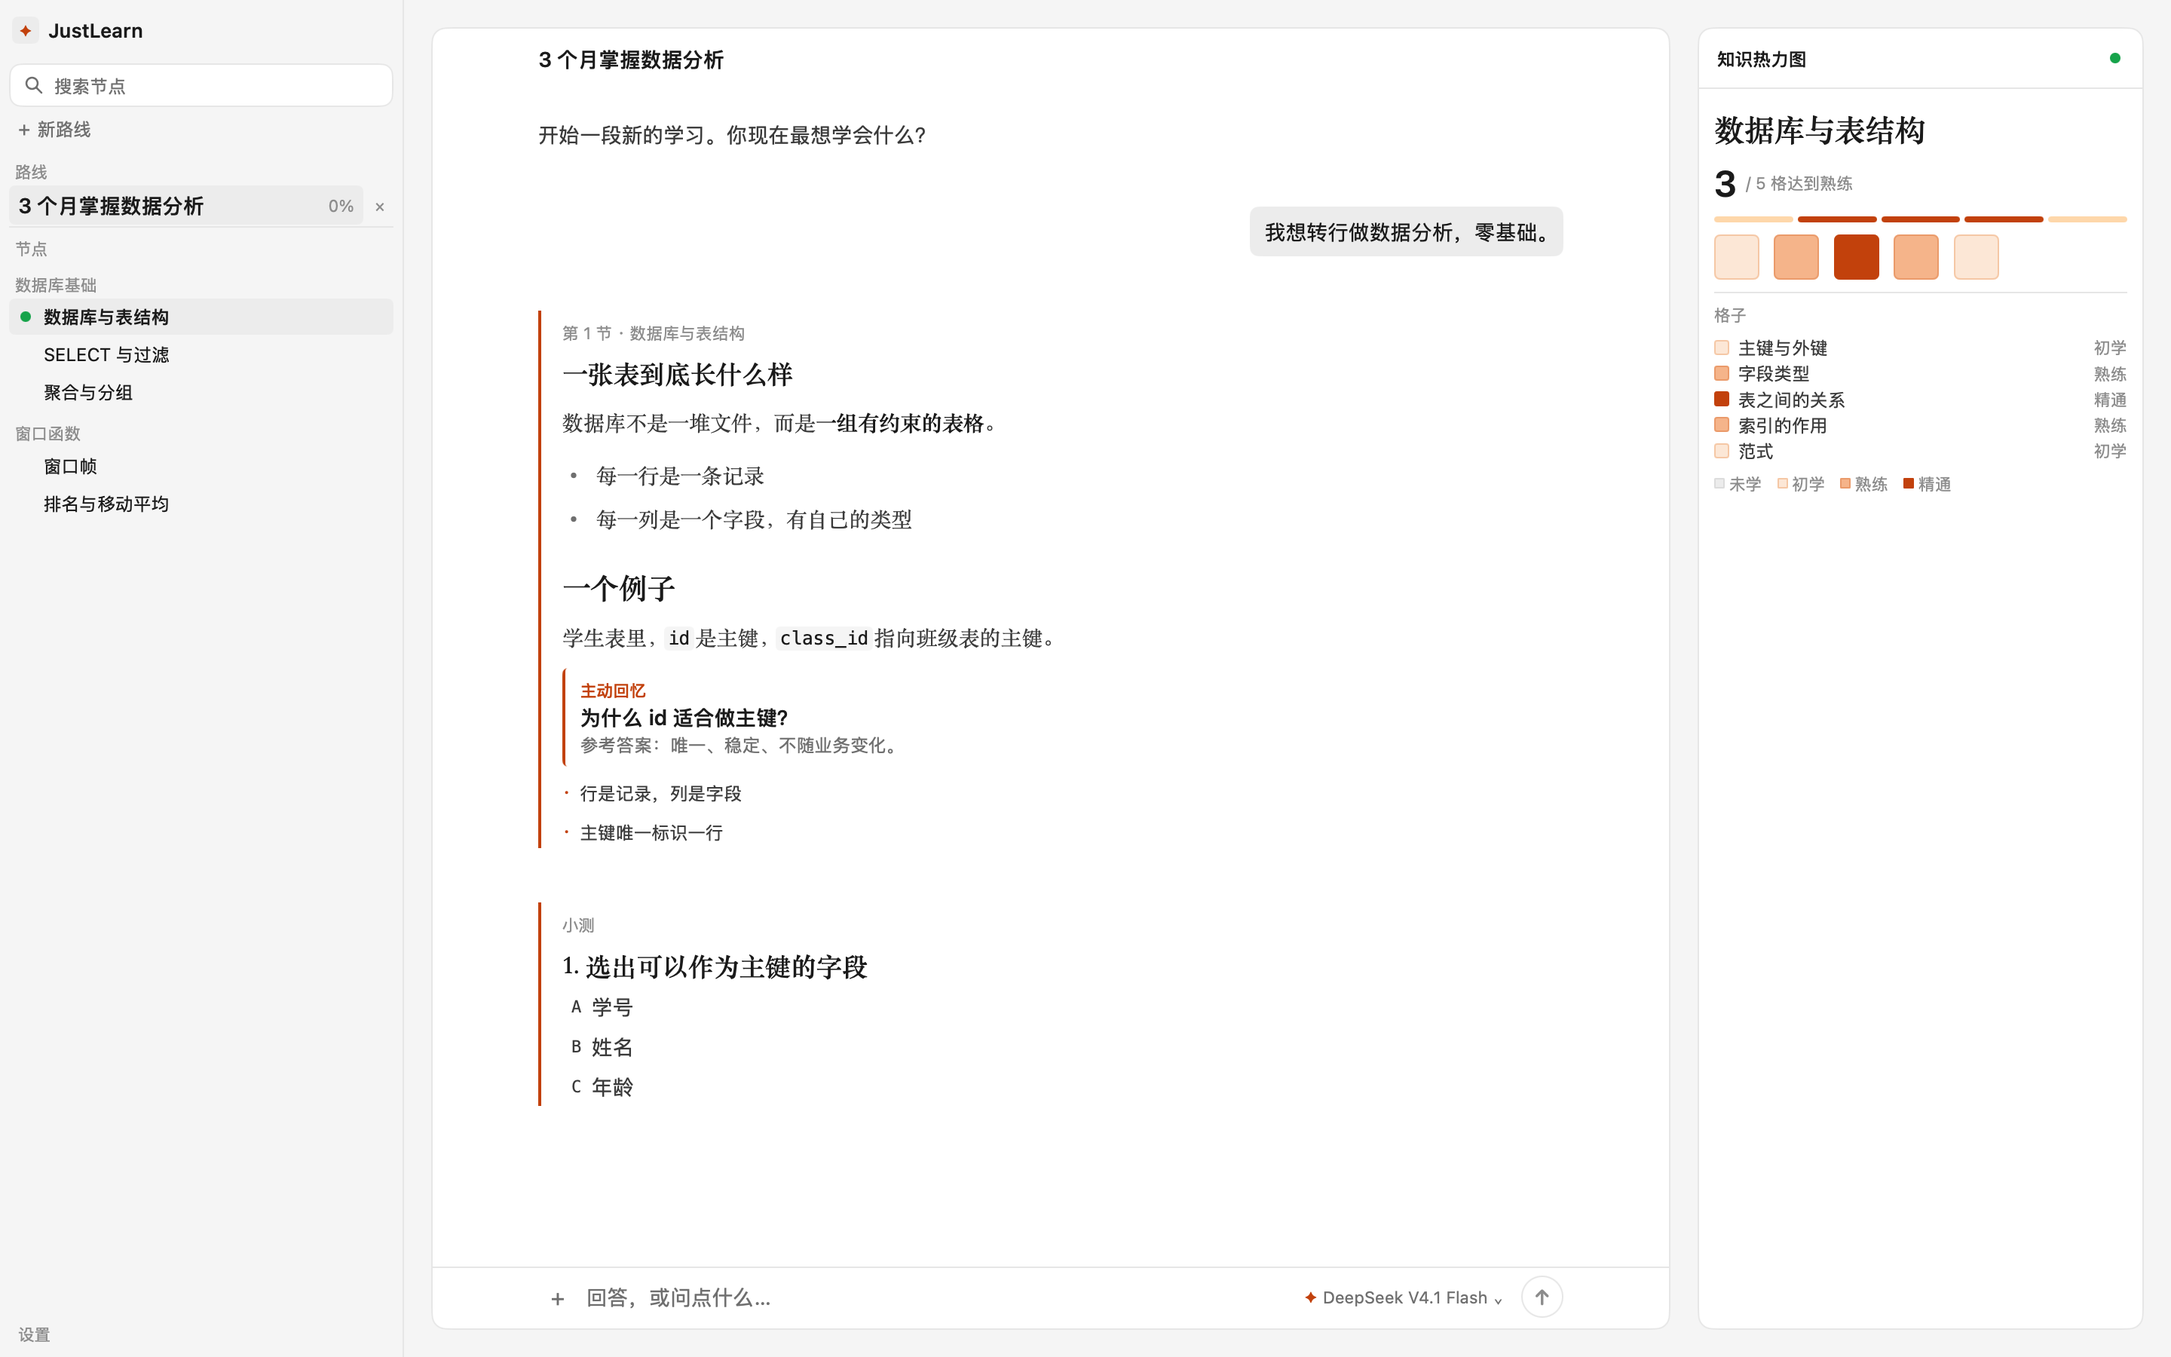
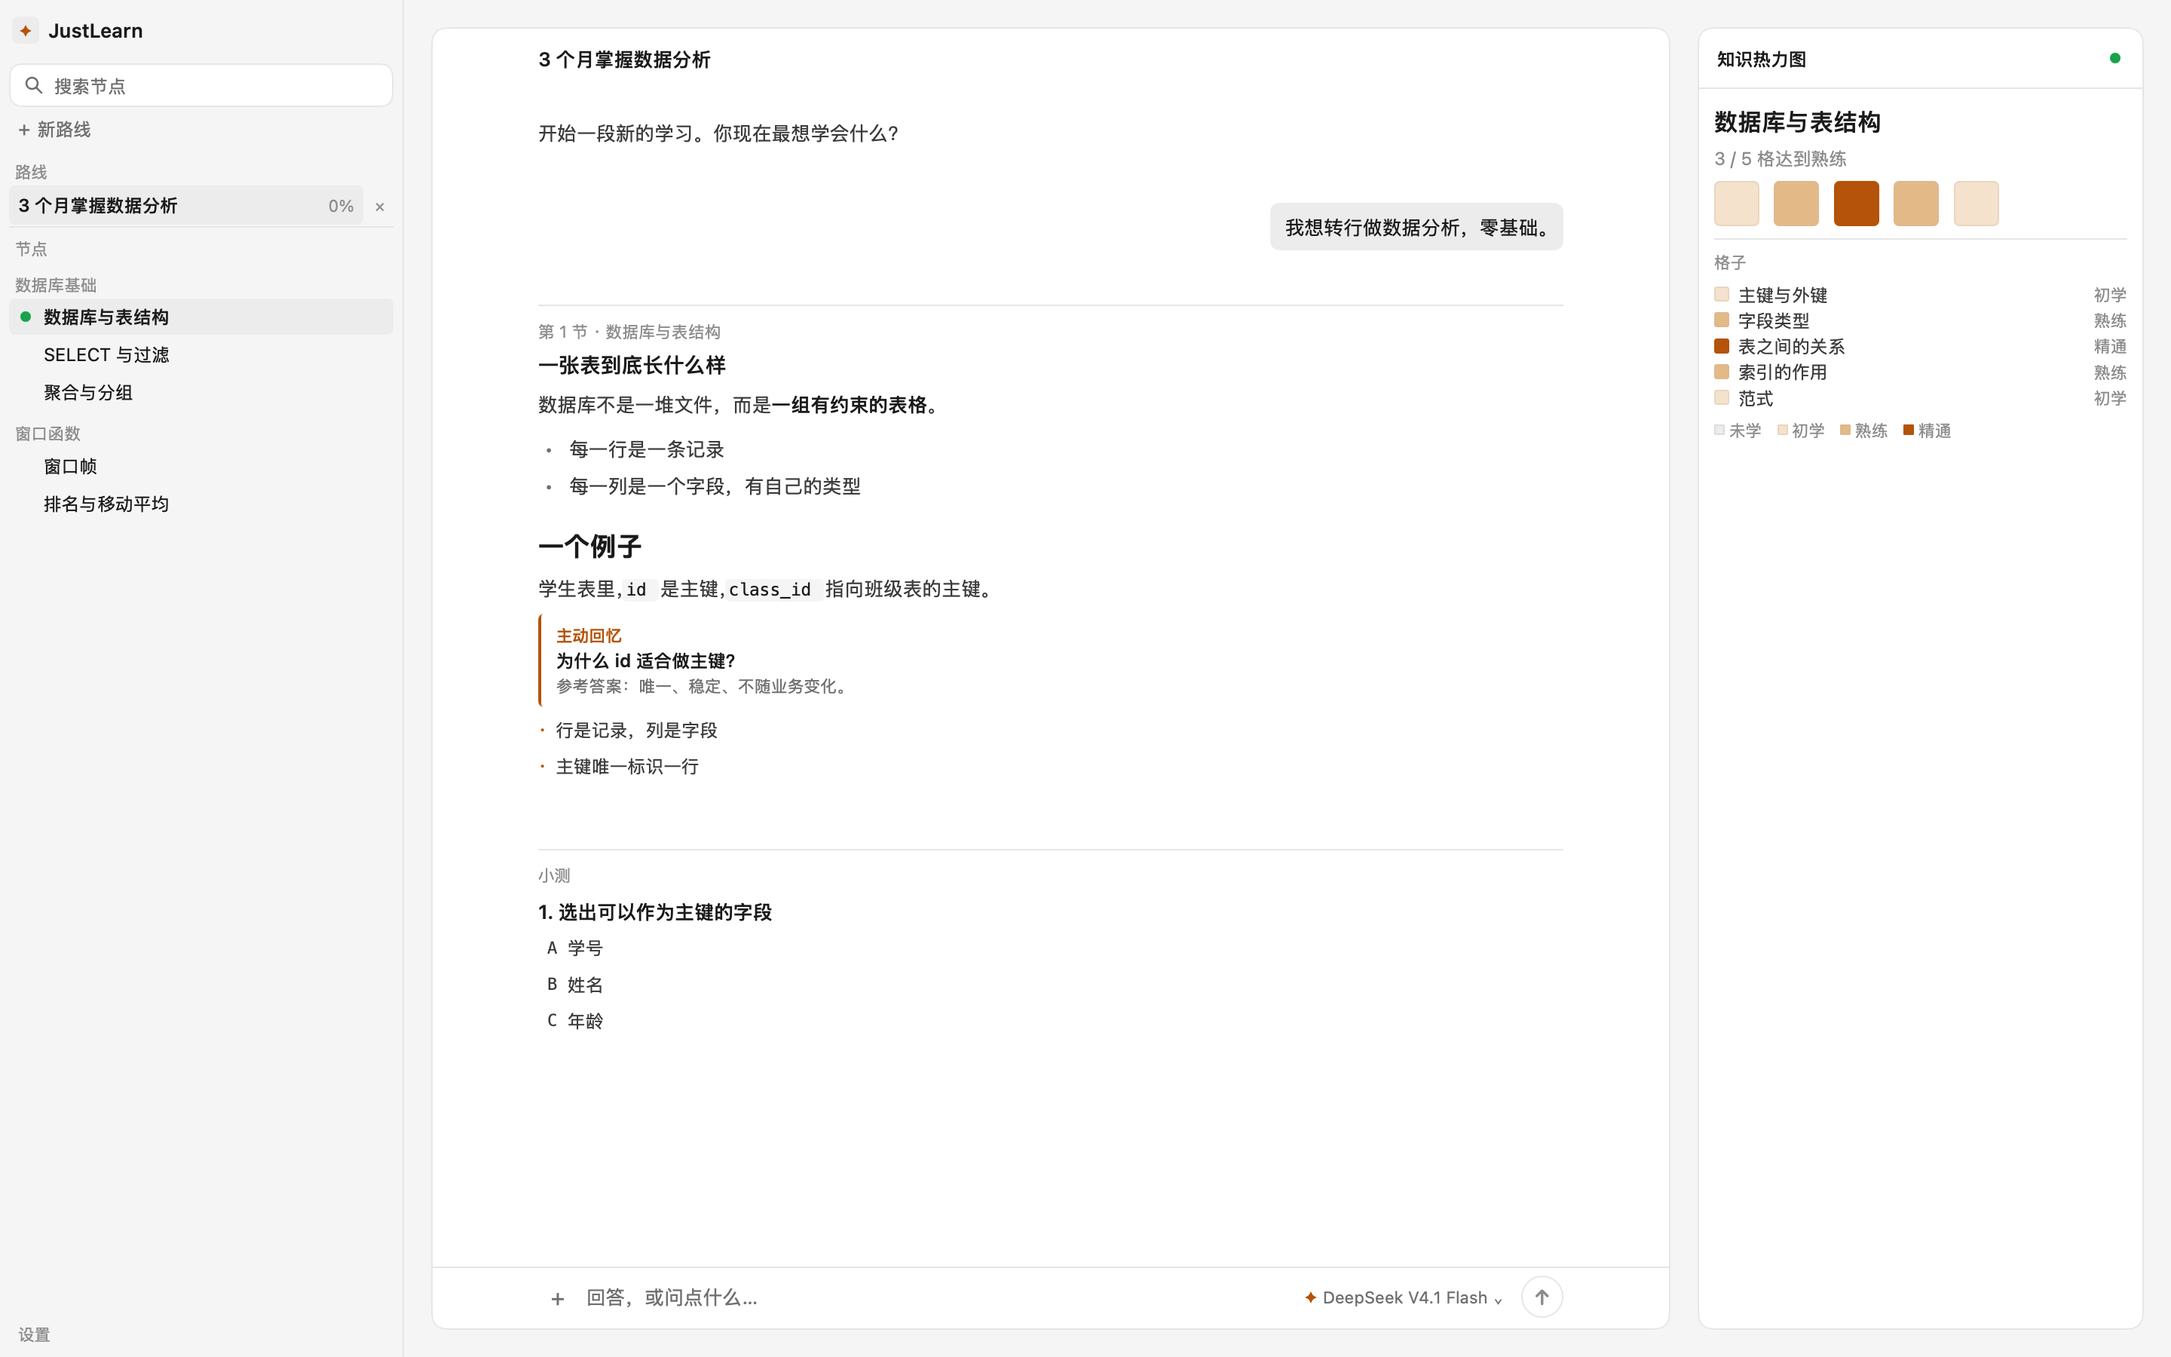
Revert "Give the tutor workspace a reading-first visual system"
This reverts commit 7977d6d4503aacf83db2c948243e657b316a3bfd.

diff --git a/desktop/chat.go b/desktop/chat.go
@@ -41,7 +41,7 @@ func (a *app) mdOptions(t *ui.Theme) *markdown.Options {
 	p := paletteFor(t.Dark)
 	theme := markdown.DefaultTheme(t)
 	theme.FontSize = fsRead
-	theme.LineHeight = 1.72
+	theme.LineHeight = 1.65
 	theme.Font = uiFont
 	theme.Text = p.body
 	theme.Muted = p.muted
@@ -56,27 +56,6 @@ func (a *app) mdOptions(t *ui.Theme) *markdown.Options {
 	theme.BlockSpacing = 0.6
 	a.md.Theme = theme
 	return a.md
-}
-
-func (a *app) mdOptionsSerif(t *ui.Theme) *markdown.Options {
-	p := paletteFor(t.Dark)
-	theme := markdown.DefaultTheme(t)
-	theme.FontSize = fsRead
-	theme.LineHeight = 1.8
-	theme.Font = serifFont
-	theme.Text = p.body
-	theme.Muted = p.muted
-	theme.Link = p.blue
-	theme.Strong = p.text
-	theme.Code = p.text
-	theme.CodeFont = monoFont
-	theme.CodeBackground = p.fieldBg
-	theme.CodeBlockBackground = p.surface2
-	theme.CodeBlockBorder = p.surface2
-	theme.CodeBlockRadius = 4
-	theme.BlockSpacing = 0.7
-	a.mdSerif.Theme = theme
-	return a.mdSerif
 }
 
 func (a *app) main(c *ui.Context, t *ui.Theme) {
@@ -102,7 +81,7 @@ func (a *app) topbar(c *ui.Context, t *ui.Theme) {
 			if title == "" {
 				title = "新对话"
 			}
-			ui.Text(c, title).FontSize(fsRead).FontWeight(600).TextColor(p.text).MaxLines(1).DragWindow()
+			ui.Text(c, title).FontSize(13).FontWeight(600).TextColor(p.text).MaxLines(1).DragWindow()
 			ui.Box(c).Grow(1).FillHeight().DragWindow()
 			if a.streaming {
 				ui.Spinner(c)
@@ -161,7 +140,7 @@ func (a *app) emptyChat(c *ui.Context, t *ui.Theme) {
 	p := paletteFor(t.Dark)
 	ui.Column(c).FillWidth().AlignItems(ui.Center).Gap(8).Children(func() {
 		ui.Text(c, "✦").FontSize(16).TextColor(p.blue)
-		serif(c, "开始一段新的学习").FontSize(fsDisplay).FontWeight(600).TextColor(p.text)
+		ui.Text(c, "开始一段新的学习").FontSize(fsSection).FontWeight(600).TextColor(p.text)
 		ui.Text(c, "告诉教练你想学什么，路线和热力图会在聊天里长出来。").
 			FontSize(fsUI).TextColor(p.muted).TextAlign(ui.Center).MaxWidth(420).LineHeight(1.5)
 		ui.Row(c).Gap(6).PaddingY(4).Children(func() {
@@ -211,13 +190,13 @@ func (a *app) lessonSection(c *ui.Context, t *ui.Theme, msg store.Message) {
 	p := paletteFor(t.Dark)
 	var payload lessonPayload
 	_ = json.Unmarshal([]byte(msg.Payload), &payload)
-	ui.Column(c).FillWidth().BorderWidth(0, 0, 0, 2).BorderColor(p.blue).
-		Padding(8, 0, 2, 14).Gap(8).Children(func() {
+	ui.Column(c).FillWidth().BorderWidth(1, 0, 0, 0).BorderColor(p.hairline).
+		Padding(10, 0).Gap(6).Children(func() {
 		a.kicker(c, t, payload.Kicker)
 		if payload.Title != "" {
-			serif(c, payload.Title).FontSize(fsTitle).FontWeight(600).LineHeight(1.35).TextColor(p.text)
+			ui.Text(c, payload.Title).FontSize(fsTitle).FontWeight(600).LineHeight(1.35).TextColor(p.text)
 		}
-		markdown.View(c, payload.Body, a.mdOptionsSerif(t)).FillWidth()
+		markdown.View(c, payload.Body, a.mdOptions(t)).FillWidth()
 		if payload.Code != "" {
 			ui.Box(c).FillWidth().Background(p.fieldBg).Radius(radiusBadge).Padding(8, 10).Children(func() {
 				ui.Text(c, payload.Code).FontSize(fsCaption).Font(monoFont).TextColor(p.body)
@@ -228,8 +207,8 @@ func (a *app) lessonSection(c *ui.Context, t *ui.Theme, msg store.Message) {
 				BorderWidth(0, 0, 0, 2).BorderColor(p.blue).Padding(8, 10).Children(func() {
 				ui.Column(c).FillWidth().Gap(3).Children(func() {
 					ui.Text(c, "主动回忆").FontSize(fsCaption).FontWeight(600).TextColor(p.blue)
-					ui.Text(c, payload.Recall.Prompt).FontSize(fsRead).FontWeight(600).TextColor(p.text)
-					ui.Text(c, "参考答案："+payload.Recall.Answer).FontSize(fsUI).TextColor(p.muted)
+					ui.Text(c, payload.Recall.Prompt).FontSize(fsUI).FontWeight(600).TextColor(p.text)
+					ui.Text(c, "参考答案："+payload.Recall.Answer).FontSize(fsCaption).TextColor(p.muted)
 				})
 			})
 		}
@@ -249,14 +228,14 @@ func (a *app) quizSection(c *ui.Context, t *ui.Theme, msg store.Message) {
 	p := paletteFor(t.Dark)
 	var payload quizPayload
 	_ = json.Unmarshal([]byte(msg.Payload), &payload)
-	ui.Column(c).FillWidth().BorderWidth(0, 0, 0, 2).BorderColor(p.blue).
-		Padding(8, 0, 2, 14).Gap(8).Children(func() {
+	ui.Column(c).FillWidth().BorderWidth(1, 0, 0, 0).BorderColor(p.hairline).
+		Padding(10, 0).Gap(8).Children(func() {
 		a.kicker(c, t, "小测")
 		for qi, q := range payload.Questions {
 			chosen, answered := a.quizChoices[q.ID]
 			ui.Column(c).FillWidth().Gap(4).Children(func() {
-				serif(c, fmt.Sprintf("%d. %s", qi+1, q.Prompt)).FontSize(fsTitle).FontWeight(600).
-					LineHeight(1.45).TextColor(p.text)
+				ui.Textf(c, "%d. %s", qi+1, q.Prompt).FontSize(fsRead).FontWeight(600).
+					LineHeight(1.5).TextColor(p.text)
 				for oi, option := range q.Options {
 					letter := string(rune('A' + oi))
 					correct := answered && oi == q.AnswerIndex
@@ -274,7 +253,7 @@ func (a *app) quizSection(c *ui.Context, t *ui.Theme, msg store.Message) {
 						Padding(3, 6).Radius(radiusBadge).Background(bg).Children(func() {
 						ui.Row(c).FillWidth().Gap(7).AlignItems(ui.Center).Children(func() {
 							ui.Text(c, letter).FontSize(fsCaption).Font(monoFont).TextColor(fg)
-							ui.Text(c, option).Grow(1).FontSize(fsRead).TextColor(fg).MaxLines(2)
+							ui.Text(c, option).Grow(1).FontSize(fsUI).TextColor(fg).MaxLines(2)
 							if correct {
 								ui.Text(c, "正确答案").FontSize(fsCaption).TextColor(p.blue)
 							} else if wrong {

diff --git a/desktop/theme.go b/desktop/theme.go
@@ -2,21 +2,16 @@ package main
 
 import "github.com/egoist/mygo/ui"
 
-// Type scale: meta 11 / UI 12 / reading 14 / title 17 / section 20 / display 24.
+// Type scale: 12 / 14 / 16 / 20 / 24 / 30.
+// Compact editor scale: meta 11 / UI 12 / reading 13 / title 14 / section 16.
 const (
 	fsCaption float32 = 11
 	fsUI      float32 = 12
-	fsRead    float32 = 14
-	fsTitle   float32 = 17
-	fsSection float32 = 20
-	fsDisplay float32 = 24
+	fsRead    float32 = 13
+	fsTitle   float32 = 14
+	fsSection float32 = 16
+	fsDisplay float32 = 18
 )
-
-const serifFont = "Songti SC, Noto Serif SC, Source Han Serif SC, Georgia, serif"
-
-func serif(c *ui.Context, s string) ui.Element {
-	return ui.Text(c, s).Font(serifFont)
-}
 
 // Shadcn radii: rounded-lg 8 (cards), rounded-md 6 (controls), rounded-sm 4 (badges).
 const (
@@ -26,8 +21,9 @@ const (
 )
 
 const (
-	uiFont   = "system-ui"
-	monoFont = "SF Mono, Menlo, Consolas, monospace"
+	uiFont    = "system-ui"
+	serifFont = "Songti SC, Noto Serif SC, Source Han Serif SC, Georgia, serif"
+	monoFont  = "SF Mono, Menlo, Consolas, monospace"
 )
 
 type palette struct {
@@ -80,10 +76,10 @@ func paletteFor(dark bool) palette {
 			faint:          ui.Hex("#8A8A8A"),
 			hairline:       ui.Hex("#303030"),
 			borderStrong:   ui.Hex("#4A4A4A"),
-			blue:           ui.Hex("#FB923C"),
-			blueSoft:       ui.Hex("#3A2418"),
+			blue:           ui.Hex("#F59E0B"),
+			blueSoft:       ui.Hex("#3A2A14"),
 			recallBg:       ui.Hex("#2A2118"),
-			blueLine:       ui.Hex("#6B3F24"),
+			blueLine:       ui.Hex("#5A3E1B"),
 			rust:           ui.Hex("#F97066"),
 			green:          ui.Hex("#4ADE80"),
 			rustSoft:       ui.Hex("#3A1D1A"),
@@ -115,9 +111,9 @@ func paletteFor(dark bool) palette {
 		faint:          ui.Hex("#8C8C8C"),
 		hairline:       ui.Hex("#E6E6E6"),
 		borderStrong:   ui.Hex("#D2D2D2"),
-		blue:           ui.Hex("#C2410C"),
-		blueSoft:       ui.Hex("#FFF4ED"),
-		blueLine:       ui.Hex("#FED7AA"),
+		blue:           ui.Hex("#B45309"),
+		blueSoft:       ui.Hex("#FDF4EA"),
+		blueLine:       ui.Hex("#EAD5BF"),
 		rust:           ui.Hex("#B42318"),
 		green:          ui.Hex("#16A34A"),
 		rustSoft:       ui.Hex("#FEF3F2"),
@@ -173,23 +169,27 @@ func appTheme(dark bool) *ui.Theme {
 	return t
 }
 
+func serif(c *ui.Context, s string) ui.Element {
+	return ui.Text(c, s).Font(serifFont)
+}
+
 // heatStyle returns the fill, border and text colors of a mastery tile.
 func heatStyle(mastery int, dark bool) (ui.Color, ui.Color, ui.Color) {
 	p := paletteFor(dark)
 	switch mastery {
 	case 1:
 		if dark {
-			return ui.Hex("#442A1B"), ui.Hex("#6B4226"), ui.Hex("#F8C9A8")
+			return ui.Hex("#3A2C1C"), ui.Hex("#5A422A"), ui.Hex("#F2D9BC")
 		}
-		return ui.Hex("#FCE7D6"), ui.Hex("#F5C7A5"), ui.Hex("#9A3412")
+		return ui.Hex("#F5E2CC"), ui.Hex("#EAD5BF"), ui.Hex("#8A4B16")
 	case 2:
 		if dark {
-			return ui.Hex("#8A4B24"), ui.Hex("#A65D2E"), ui.Hex("#FBE0C8")
+			return ui.Hex("#6B4A24"), ui.Hex("#8A6434"), ui.Hex("#F7E6D2")
 		}
-		return ui.Hex("#F5B48A"), ui.Hex("#EA9A6A"), ui.Hex("#7C2D12")
+		return ui.Hex("#E4B988"), ui.Hex("#DDB98D"), ui.Hex("#6B3A10")
 	case 3:
 		if dark {
-			return ui.Hex("#EA580C"), ui.Hex("#EA580C"), ui.Hex("#FFFFFF")
+			return ui.Hex("#D97706"), ui.Hex("#D97706"), ui.Hex("#FFFFFF")
 		}
 		return p.blue, p.blue, ui.Hex("#FFFFFF")
 	default:

diff --git a/desktop/route.go b/desktop/route.go
@@ -50,28 +50,14 @@ func (a *app) heatmapSection(c *ui.Context, t *ui.Theme, node store.Node) {
 		}
 	}
 	ui.Column(c).FillWidth().Gap(8).Children(func() {
-		serif(c, node.Title).FontSize(fsSection).FontWeight(600).TextColor(p.text).MaxLines(2)
+		ui.Text(c, node.Title).FontSize(fsSection).FontWeight(600).TextColor(p.text).MaxLines(2)
 		if len(node.Cells) == 0 {
 			ui.Text(c, "还没有热力图。开始这一节时教练会定义 3–9 个格子。").
 				FontSize(fsCaption).TextColor(p.faint).LineHeight(1.55)
 			return
 		}
-		ui.Row(c).FillWidth().Gap(6).AlignItems(ui.Center).Children(func() {
-			ui.Textf(c, "%d", lit).FontSize(fsDisplay).FontWeight(600).TextColor(p.text)
-			ui.Textf(c, "/ %d 格达到%s", len(node.Cells), masteryLabels[node.Threshold]).
-				FontSize(fsCaption).TextColor(p.faint)
-		})
-		ui.Row(c).FillWidth().Height(4).Gap(3).Children(func() {
-			for _, skill := range node.Cells {
-				cell := skill
-				seg := ui.Box(c).Grow(1).Height(4).Radius(2).Background(p.fieldBg)
-				if cell.Mastery >= node.Threshold {
-					seg.Background(p.blue)
-				} else if cell.Mastery > 0 {
-					seg.Background(p.blueLine)
-				}
-			}
-		})
+		ui.Textf(c, "%d / %d 格达到%s", lit, len(node.Cells), masteryLabels[node.Threshold]).
+			FontSize(fsUI).TextColor(p.faint)
 		ui.Grid(c).FillWidth().Columns(7).Gap(4).Children(func() {
 			for _, skill := range node.Cells {
 				cell := skill

diff --git a/desktop/sidebar.go b/desktop/sidebar.go
@@ -58,7 +58,7 @@ func (a *app) sidebar(c *ui.Context, t *ui.Theme) {
 						row := ui.ButtonBase(c.Key("route:" + g.ID)).Grow(1).Height(26).Radius(radiusBadge).
 							PaddingX(6).Children(func() {
 							ui.Row(c).FillWidth().AlignItems(ui.Center).Children(func() {
-								ui.Text(c, g.Title).FontSize(fsRead).FontWeight(weight).MaxLines(1).
+								ui.Text(c, g.Title).FontSize(fsUI).FontWeight(weight).MaxLines(1).
 									TextColor(p.sidebarText)
 								ui.Spacer(c)
 								ui.Textf(c, "%d%%", g.Percent()).FontSize(fsCaption).TextColor(p.faint)

diff --git a/desktop/app.go b/desktop/app.go
@@ -39,7 +39,6 @@ type app struct {
 
 	draft      string
 	md         *markdown.Options
-	mdSerif    *markdown.Options
 	chatList   ui.ListState
 	composer   ui.Handle
 	focusDraft bool
@@ -70,7 +69,6 @@ type app struct {
 func newApp(st *store.Store) *app {
 	a := &app{store: st, quizChoices: map[string]int{}, routeOpen: true}
 	a.md = &markdown.Options{ShareSelection: true}
-	a.mdSerif = &markdown.Options{ShareSelection: true}
 	a.chatList.FollowEnd = true
 	a.chatList.FollowAnimation = &ui.Smooth
 	a.chatList.Key = func(row int) any {

diff --git a/DESIGN.md b/DESIGN.md
@@ -23,20 +23,20 @@
 - `text` / `body`：标题与正文。`#1A1A1A` / `#3A3A3A`
 - `muted` / `faint`：辅助信息、占位。`#6F6F6F` / `#8C8C8C`
 - `hairline`：面板边界、分隔线。`#E6E6E6`
-- `blue`：唯一强调色，橙琥珀。`#C2410C`；只用于热力图、当前节点、当前选择、AI 星标
+- `blue`：唯一强调色，琥珀色。`#B45309`；只用于热力图、当前节点、当前选择、AI 星标
 - `blueSoft` / `blueLine`：琥珀浅底与边框。`#FDF4EA` / `#EAD5BF`
 - `rust`：错误与删除。`#B42318`
 - `navActive` / `navHover`：侧栏与路线行的选中/悬停灰。`#ECECEC` / `#F1F1F1`
 - `fieldBg`：输入条、气泡、按钮悬停。`#F5F5F5`
 
-字体：系统无衬线；课文标题/正文和右侧节点标题用宋体；代码等宽。
+字体：系统无衬线；代码等宽。
 
 - 元信息 11
 - 控件、列表、选项 12
-- 正文、聊天、课文 14
-- 卡片与课文标题 17
-- 区块与右侧节点标题 20
-- 空态标题与大数字 24
+- 正文、聊天、课文 13
+- 卡片与节点标题 14
+- 区块标题 16
+- 空态标题 18
 
 形状与布局：
 
@@ -57,8 +57,7 @@
 
 - **侧栏**：260px 浅灰；顶部 `SearchField` 过滤节点；路线行显示标题与进度、右侧 `×` 删除；下方展示当前路线的全部阶段和节点，点击节点在右侧查看其热力图。
 - **主面板**：白色圆角；40px 顶栏显示当前路线标题；消息与课程/小测是文档段落，不套卡片、不加头像。
-- **路线面板（右侧）**：白色圆角；宋体节点标题、大号达标数字 + 分段进度、30px 小方块热力图、格子明细与图例；不放路线切换和节点列表。
-- **课文与小测**：左侧 2px 琥珀页边线；课文标题和正文用宋体，正文 14px / 1.8 行高；主动回忆块用浅橙描边，不叠加第二条规则线。
+- **路线面板（右侧）**：白色圆角；展示当前/选中节点的标题、阈值进度、小方块热力图与图例；不放路线切换和节点列表。
 - **输入区**：平栏；左 `+` 导入 .txt/.md；中间输入；右侧模型选择 `✦ DeepSeek V4.1 Flash ⌄` 与 28px 圆形发送/停止按钮。
 - **搜索**：会话标题不区分大小写包含匹配；清空恢复全部。
 - **删除**：路线删除会连带节点、格子、相关会话和消息；删除当前路线后新建一条空路线。
@@ -80,7 +79,6 @@
 - 2026-11-05：改成截图的简洁风格：中性灰画布、白色圆角面板、浅灰侧栏、琥珀色信号（用户确认）
 - 2026-11-05：输入区从胶囊改为面板底部平栏；去掉深色块（用户确认）
 - 2026-11-05：左侧展示完整学习路线（路线 + 全部节点），右侧展示当前/选中节点的热力图；不再展示会话（用户确认）
-- 2026-11-05：课文采用衬线阅读 + 琥珀页边线，右侧热力图升级为“大数字 + 分段进度 + 方块 + 明细”的仪表（用户确认）
 - 2026-11-05：节点状态用绿点/对号/留空，去掉“学习中/待学”文字（用户确认）
 - 2026-11-05：路线右侧常驻 `×` 删除（用户确认）
 - 2026-11-05：教学一次只问一个问题，短讲解 + 检查问题；课时卡可选、限长；小测一次一题（用户确认）

diff --git a/README.md b/README.md
@@ -9,9 +9,8 @@ JustLearn 是一个原生桌面的 AI 私人教师：在聊天里学、在聊天
 ## 功能
 
 - **聊天式教学**：一次只问一个问题，讲一小段、问一个检查问题，答完再继续；不会一次倒完整节课。路线放在右侧，聊天里只给一句摘要。
-- **知识热力图**：每个节点 3–9 个知识格子，按 0–3 级掌握度着色；右侧用大号达标数字、分段进度和方块热力图展示当前节点。
+- **知识热力图**：每个节点 3–9 个知识格子，按 0–3 级掌握度着色；所有格子达到阈值后前进到下一节。
 - **要点卡可选**：只有用户通过几轮问答弄懂一个侧面后，才生成一张 200–300 字的要点卡，不把整节课写成文章。
-- **阅读优先**：课文标题和正文用宋体，配 2px 琥珀色页边线；聊天与控件保持无衬线。
 - **小测**：一次一题，答题后行内给出正确答案与解析，并把真实回答写回热力图证据；不会一口气发整份测验。
 - **路线与节点**：左侧列出学习路线和全部节点，点击节点在右侧查看热力图；节点状态用绿点（学习中）、对号（掌握）和留空（未学）表示。
 - **搜索与管理**：侧栏搜索路线；路线右侧的 `×` 可删除（会清理节点、格子和相关消息）。
